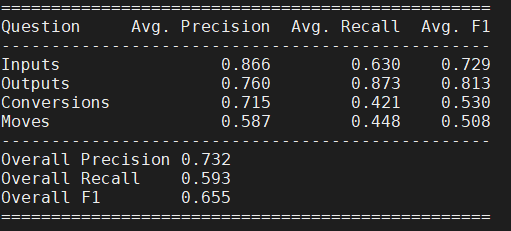
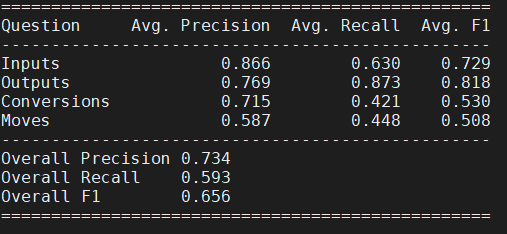
modify hard constraints in prediction and update best result

diff --git a/predict.py b/predict.py
@@ -88,6 +88,9 @@ def format_final_prediction(pred_state_seq: List[str], pred_loc_seq: List[str]) 
     return prediction
 
 
+# TODO: if state == 'MOVE' but loc_before is identical to loc_after, there are two sets of solutions:
+#       first, you can change its state to 'NONE'. Doing this will increase the precision of "moves" but will sacrifice its recall.
+#       second, you can do nothing, which will increase the recall of "moves" but will sacrifice its precision.
 def hard_constraint(state: str, loc_before: str, loc_after: str) -> (str, str, str):
     """
     Some commonsense hard constraints on the predictions.
@@ -96,21 +99,27 @@ def hard_constraint(state: str, loc_before: str, loc_after: str) -> (str, str, s
     2. For state MOVE and DESTROY, loc_before must not be '-'.
     3. For state CREATE, loc_before should be '-'.
     """
-    if state == 'NONE':
-        loc_after = loc_before
+    if state == 'NONE' and loc_before != loc_after:
+        if loc_before == '-':  # in fact, this cannot happen
+            state = 'CREATE'
+        elif loc_after == '-':
+            state = 'DESTROY'
+        # no other possibility
     if state == 'MOVE' and loc_before == '-':
         state = 'CREATE'
+    # if state == 'MOVE' and loc_before == loc_after:
+    #     state = 'NONE'
     if state == 'DESTROY' and loc_before == '-':
         state = 'NONE'
-    if state == 'CREATE' and loc_before == loc_after:
-        state = 'NONE'
-    if state == 'CREATE' and loc_before != '-' and loc_after != '-' and loc_before != loc_after:
-        state = 'MOVE'
+    if state == 'CREATE' and loc_before != '-':
+        if loc_before == loc_after:
+            state = 'NONE'
+        elif loc_before != loc_after:
+            state = 'MOVE'
     return state, loc_before, loc_after
 
 
 # TODO: if state1 == 'E', then state0 should be '?' or state0 should be the same with state1?
-# TODO: if state == 'M' but predicted location is the same with before, should I predict '?' or ignore or change 'M' to 'E'?
 def predict_consistent_loc(pred_state_seq: List[str], pred_loc_seq: List[str]) -> List[str]:
     """
     1. Only keep the location predictions at state "C" or "M"

diff --git a/README.md b/README.md
@@ -131,6 +131,6 @@ python -m spacy download en_core_web_sm
 
 ## Results
 
-Using the default hyper-parameters, the re-implemented NCET will reach a total F1 score of 65.5, while the reported score in the original paper was 62.5.
+Using the default hyper-parameters, the re-implemented NCET will reach a total F1 score of 65.6, while the reported score in the original paper was 62.5.
 
 <img src="image/result.png" alt="image-20191223140902073" width=350/>
